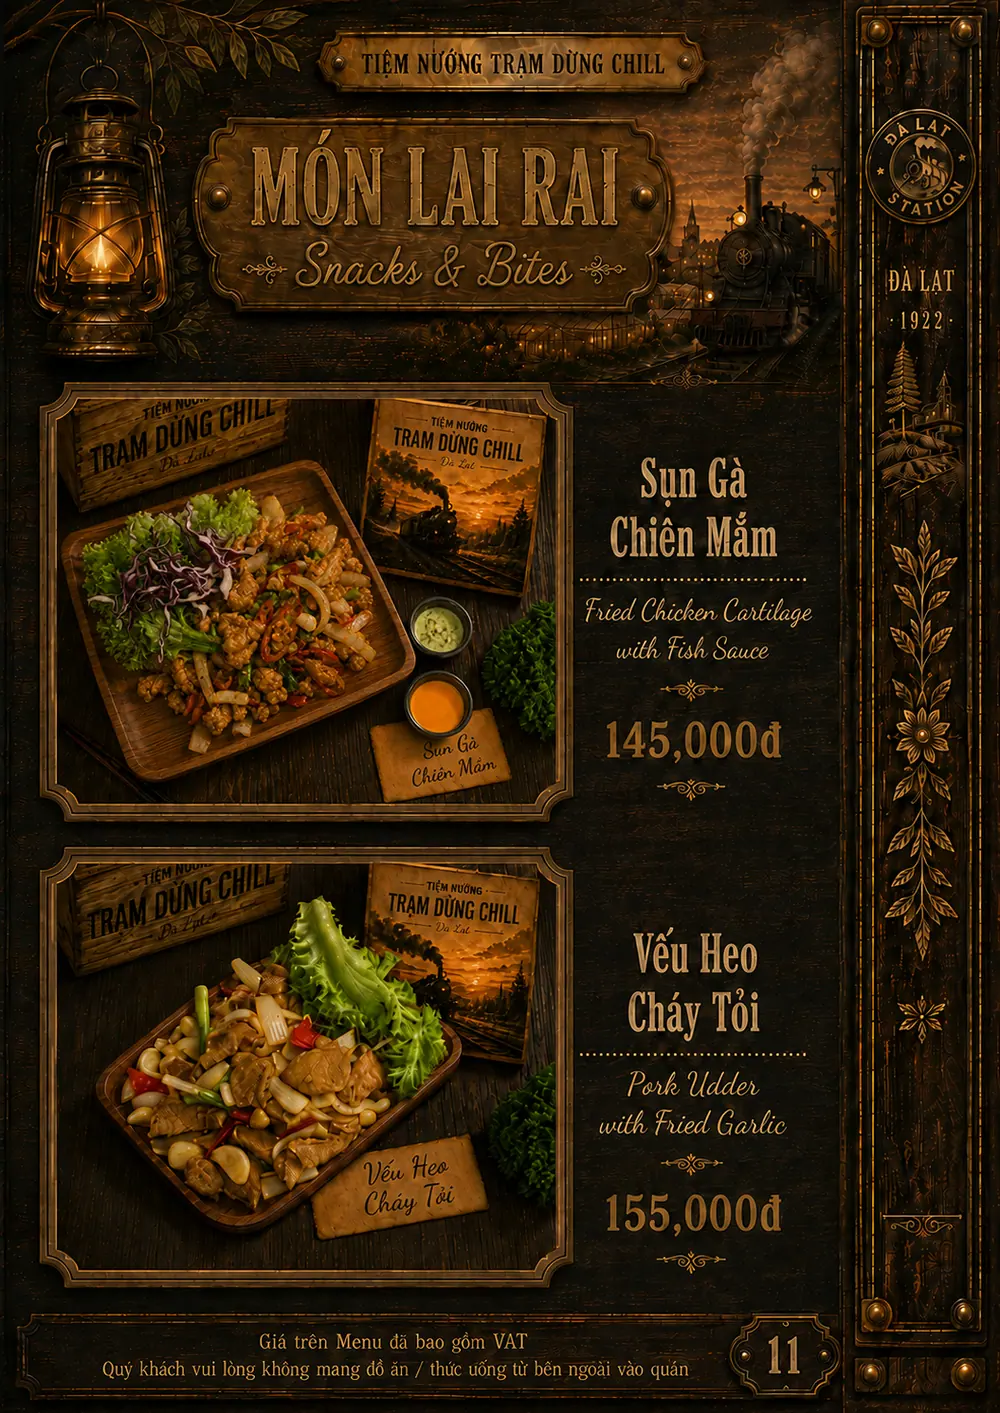
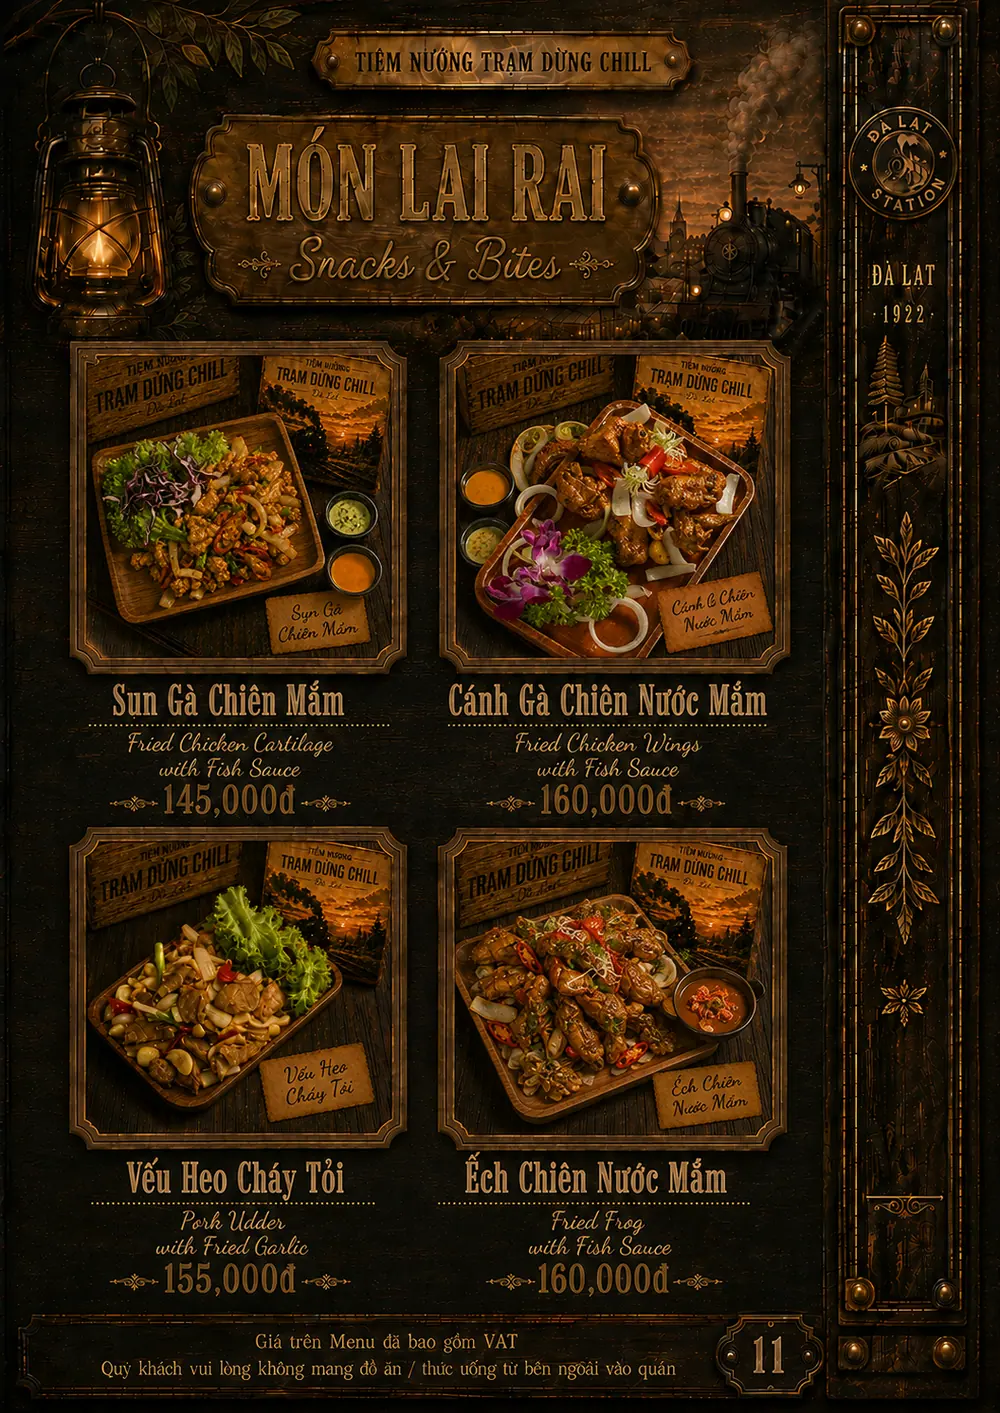
fix(menu): trang 12 doi bo cuc 2 -> 4 mon, sua gia ech va canh ga theo ban in
Sep Tuan gui ban chup moi cua trang 12 (Mon Lai Rai): bo cuc doi tu 2 mon doc
sang luoi 4 mon — them Canh Ga Chien Nuoc Mam va Ech Chien Nuoc Mam, hai mon
truoc gio chi nam trong menu-data.js chu chua co anh.

Doi chieu 4 mon voi data: Sun Ga 145K va Veu Heo 155K khop, nhung
  Ech Chien Nuoc Mam    web 155K → ban in 160K
  Canh Ga Chien Nuoc Mam web 145K → ban in 160K
Theo quy tac "ban in la chuan", sua menu-data.js theo anh. JSON-LD va khoi
noscript nay cung bao 160.000d, khong con canh anh mot gia web mot gia.

alt trang 12 viet lai cho du 4 mon. Giu nguyen slug anh: doi slug se sinh 3
file WebP moi va bo lai 3 file cu thanh rac, trong khi loi SEO khong dang.

Khong bump CACHE_NAME: URL anh mang van tay ?v=<md5>, doi anh la URL doi theo.
Kiem tra: check-facts SACH, seo-geo-verify 32/32 PASS.

diff --git a/menu.html b/menu.html
@@ -555,7 +555,7 @@
                     "name": "Ếch Chiên Nước Mắm",
                     "offers": {
                         "@type": "Offer",
-                        "price": "155000",
+                        "price": "160000",
                         "priceCurrency": "VND",
                         "availability": "https://schema.org/InStock"
                     }
@@ -565,7 +565,7 @@
                     "name": "Cánh Gà Chiên Nước Mắm",
                     "offers": {
                         "@type": "Offer",
-                        "price": "145000",
+                        "price": "160000",
                         "priceCurrency": "VND",
                         "availability": "https://schema.org/InStock"
                     }
@@ -1289,11 +1289,11 @@
                     <figcaption class="flip-page-caption">Trang 11/26 — Món Lai Rai</figcaption>
                 </figure>
                 <figure class="flip-page" data-page="12" data-group="laurai" data-group-label="Món Lai Rai" data-group-i18n="flip.group.snacks">
-                    <img src="assets/menu-pages/menu-quan-nuong-da-lat-12-mon-lai-rai-sun-ga-chien-mam-vu-heo-chay-toi-1000.webp?v=bc74137d"
-                         srcset="assets/menu-pages/menu-quan-nuong-da-lat-12-mon-lai-rai-sun-ga-chien-mam-vu-heo-chay-toi-560.webp?v=0b43d2e5 560w, assets/menu-pages/menu-quan-nuong-da-lat-12-mon-lai-rai-sun-ga-chien-mam-vu-heo-chay-toi-1000.webp?v=bc74137d 1000w"
+                    <img src="assets/menu-pages/menu-quan-nuong-da-lat-12-mon-lai-rai-sun-ga-chien-mam-vu-heo-chay-toi-1000.webp?v=6a4a688d"
+                         srcset="assets/menu-pages/menu-quan-nuong-da-lat-12-mon-lai-rai-sun-ga-chien-mam-vu-heo-chay-toi-560.webp?v=7601e733 560w, assets/menu-pages/menu-quan-nuong-da-lat-12-mon-lai-rai-sun-ga-chien-mam-vu-heo-chay-toi-1000.webp?v=6a4a688d 1000w"
                          sizes="(min-width: 900px) 46vw, 92vw"
                          width="1055" height="1491"
-                         alt="Món lai rai: sụn gà chiên mắm, vếu heo cháy tỏi"
+                         alt="Món lai rai: sụn gà chiên mắm, cánh gà chiên nước mắm, vếu heo cháy tỏi, ếch chiên nước mắm"
                          loading="lazy" decoding="async">
                     <figcaption class="flip-page-caption">Trang 12/26 — Món Lai Rai</figcaption>
                 </figure>
@@ -1500,8 +1500,8 @@
 <li>Bò Lúc Lắc — 160.000đ</li>
 <li>Sụn Gà Chiên Mắm — 145.000đ</li>
 <li>Vếu Heo Cháy Tỏi — 155.000đ</li>
-<li>Ếch Chiên Nước Mắm — 155.000đ</li>
-<li>Cánh Gà Chiên Nước Mắm — 145.000đ</li>
+<li>Ếch Chiên Nước Mắm — 160.000đ</li>
+<li>Cánh Gà Chiên Nước Mắm — 160.000đ</li>
 </ul>
 <h3>Trà Lạnh</h3>
 <ul>

diff --git a/data/menu-data.js b/data/menu-data.js
@@ -87,8 +87,8 @@ const MENU_ITEMS = {
         { name: 'Bò Lúc Lắc', price: '160K' },
         { name: 'Sụn Gà Chiên Mắm', price: '145K' },
         { name: 'Vếu Heo Cháy Tỏi', price: '155K' },
-        { name: 'Ếch Chiên Nước Mắm', price: '155K' },
-        { name: 'Cánh Gà Chiên Nước Mắm', price: '145K' },
+        { name: 'Ếch Chiên Nước Mắm', price: '160K' },
+        { name: 'Cánh Gà Chiên Nước Mắm', price: '160K' },
     ],
 
     tralanh: [

diff --git a/data/menu-pages.js b/data/menu-pages.js
@@ -114,7 +114,7 @@ var MENU_PAGES = [
         n: 12,
         group: 'laurai',
         slug: 'menu-quan-nuong-da-lat-12-mon-lai-rai-sun-ga-chien-mam-vu-heo-chay-toi',
-        alt: 'Món lai rai: sụn gà chiên mắm, vếu heo cháy tỏi'
+        alt: 'Món lai rai: sụn gà chiên mắm, cánh gà chiên nước mắm, vếu heo cháy tỏi, ếch chiên nước mắm'
     },
     {
         n: 13,
